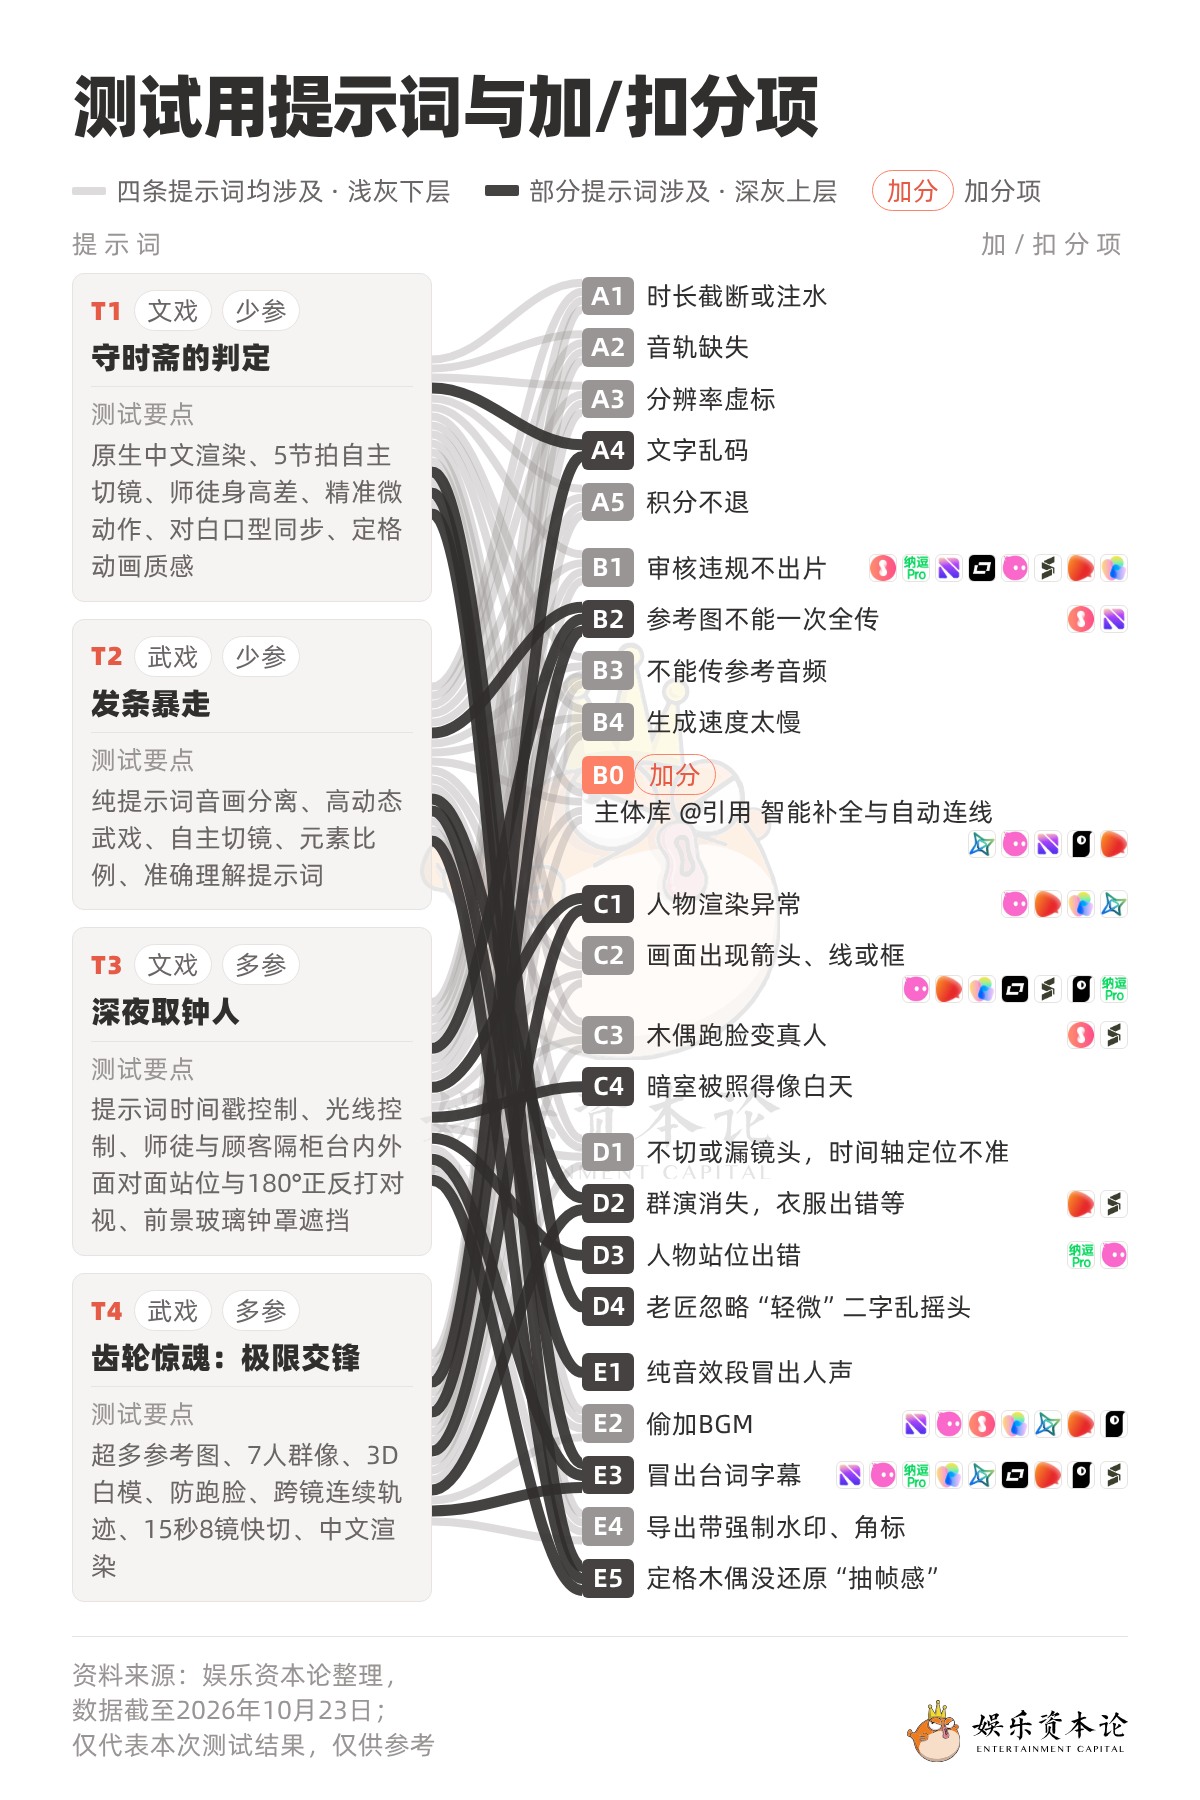
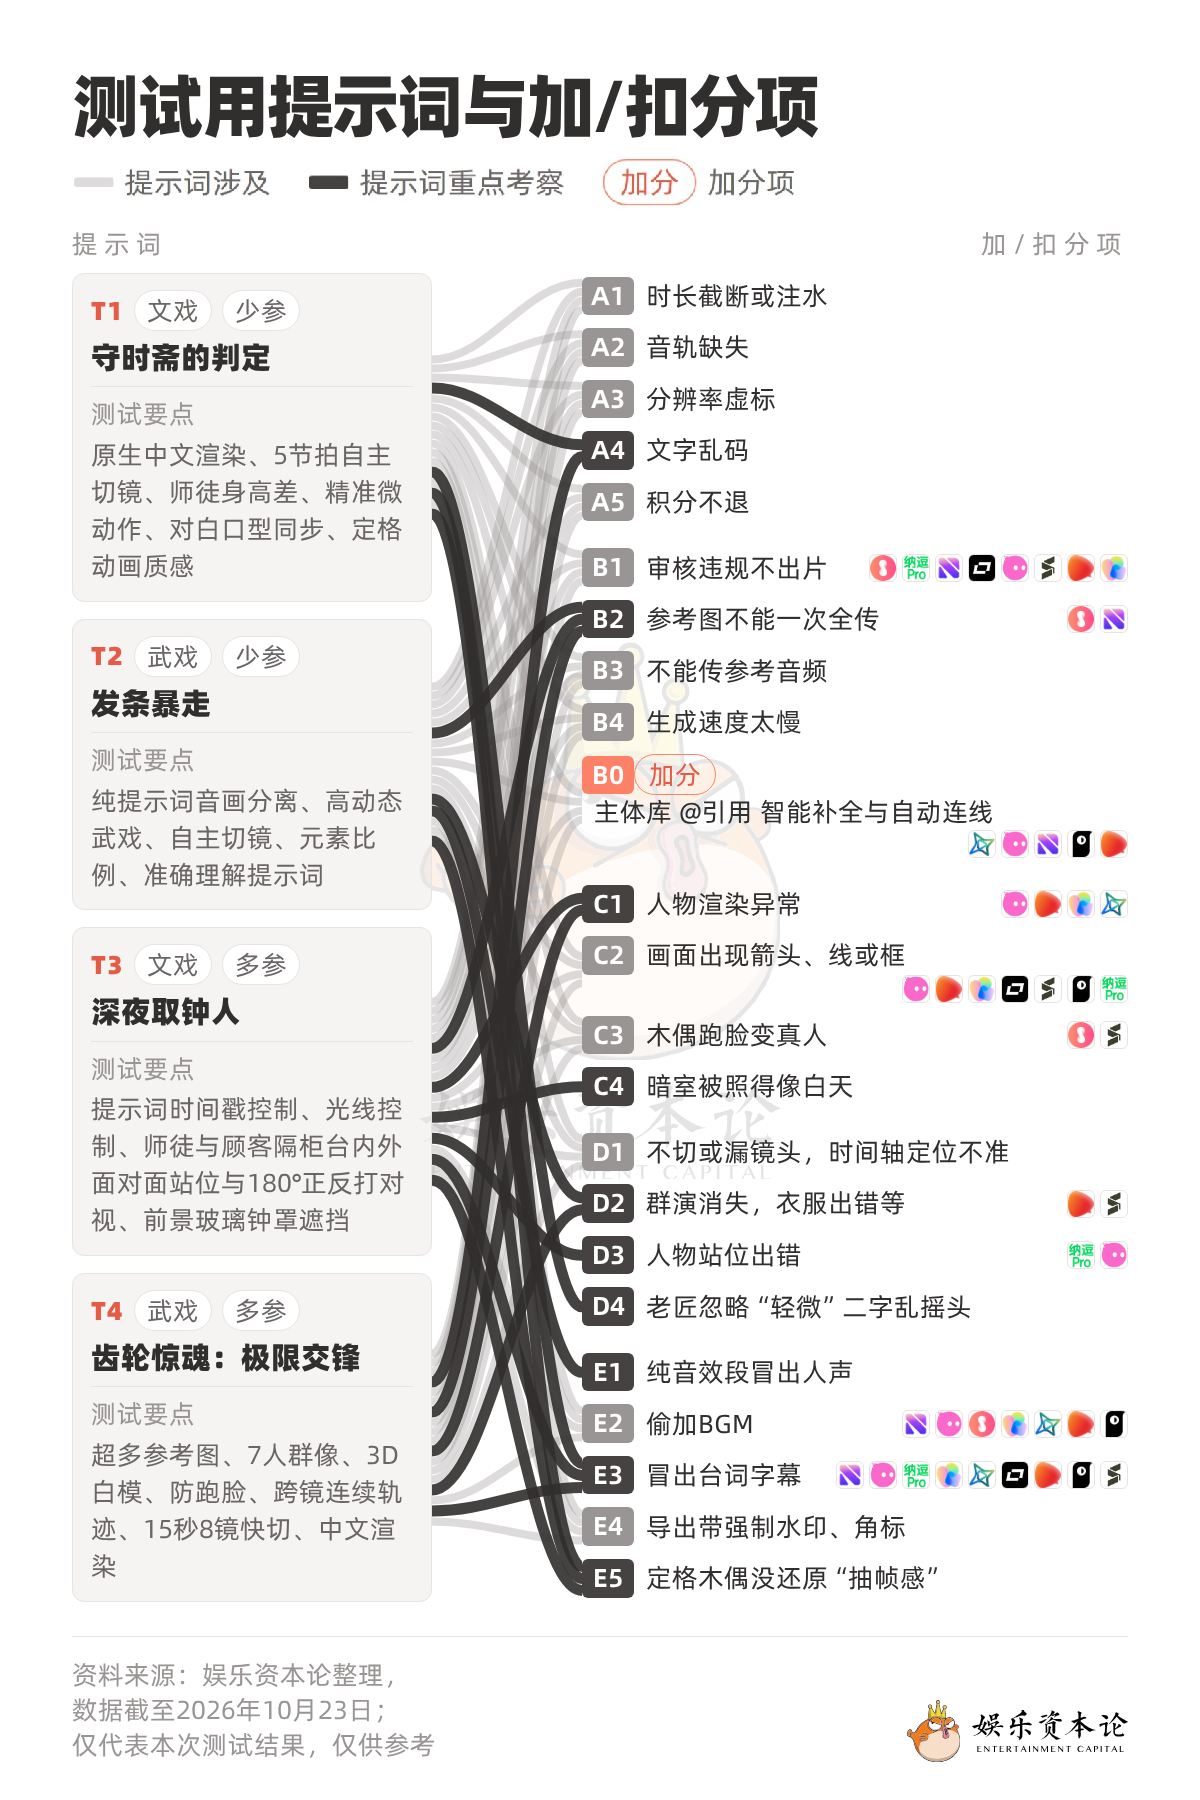
img6 change

Changed region(s): [[0.0617, 0.0933, 0.7092, 0.1244], [0.74, 0.0933, 0.8633, 0.1244]]

diff --git a/1026-drama-sankey/batch2/img6-styled.html b/1026-drama-sankey/batch2/img6-styled.html
@@ -71,8 +71,8 @@
 <!-- YZ_EDIT_2_BEGIN：用已核验图表替换占位节点 -->
 <section class="chart-body">
   <div class="legend">
-    <span class="lg"><i class="sw sw-f"></i>四条提示词均涉及 · 浅灰下层</span>
-    <span class="lg"><i class="sw sw-p"></i>部分提示词涉及 · 深灰上层</span>
+    <span class="lg"><i class="sw sw-f"></i>提示词涉及</span>
+    <span class="lg"><i class="sw sw-p"></i>提示词重点考察</span>
     <span class="lg"><span class="btag">加分</span>加分项</span>
   </div>
   <div class="col-heads"><span class="ch-l">提示词</span><span class="ch-m"></span><span class="ch-r">加/扣分项</span></div>
